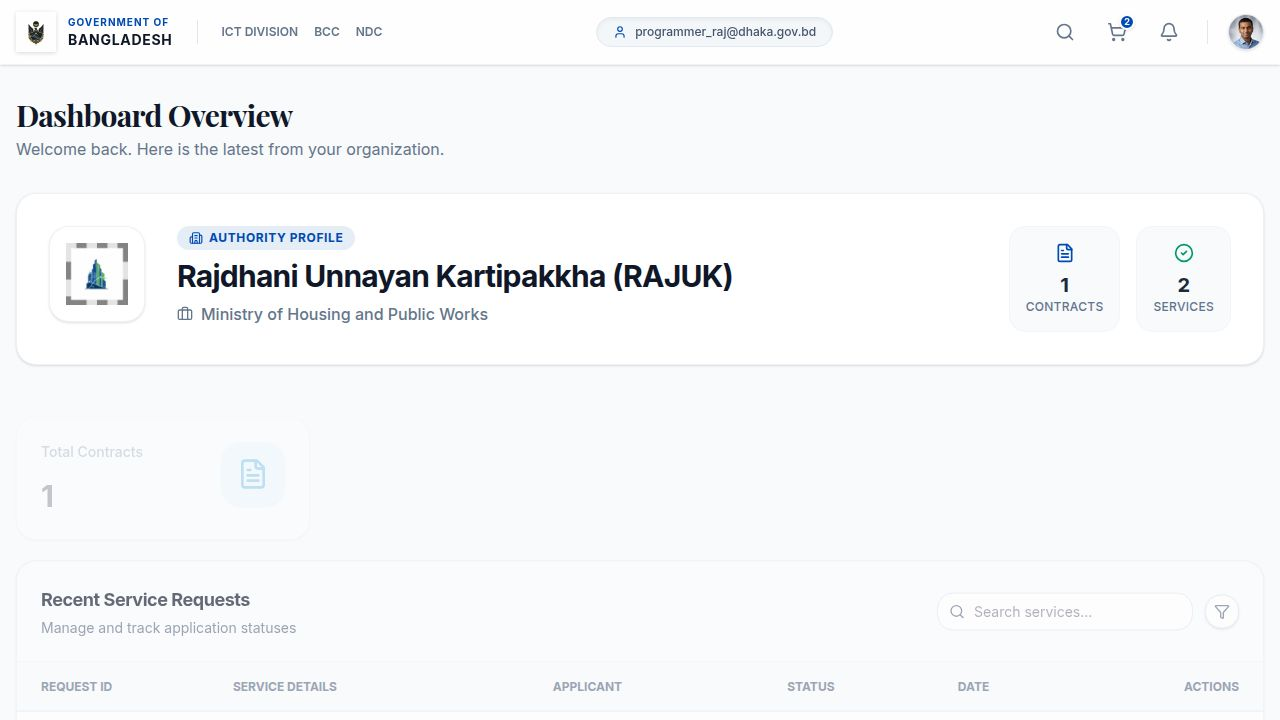
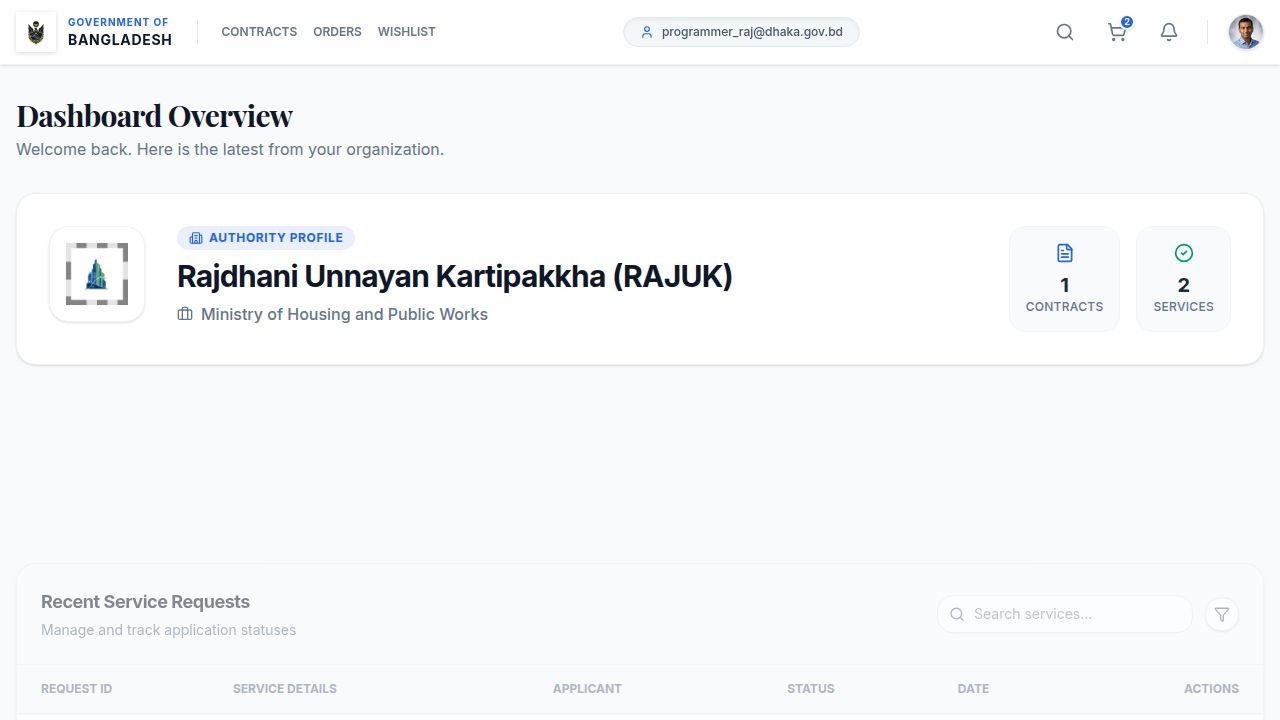
Add a collapsible sidebar navigation to the application interface
Refactors AppLayout, Sidebar, and TopNav components to implement a responsive sidebar navigation. Integrates the sidebar into the Dashboard page by using AppLayout and updating its structure.

Replit-Commit-Author: Agent
Replit-Commit-Session-Id: a30224bf-9e10-4a20-addc-dd14674d7b26
Replit-Commit-Checkpoint-Type: full_checkpoint
Replit-Commit-Event-Id: 3a14dfac-dfd6-466f-85ec-bbd6e22ebe2f
Replit-Commit-Screenshot-Url: https://storage.googleapis.com/screenshot-production-us-central1/aac74ff9-0873-4a4a-b889-fcad993d5e4f/a30224bf-9e10-4a20-addc-dd14674d7b26/wWJmvRX
Replit-Helium-Checkpoint-Created: true

diff --git a/artifacts/rajuk-dashboard/src/components/layout/Sidebar.tsx b/artifacts/rajuk-dashboard/src/components/layout/Sidebar.tsx
@@ -1,62 +1,88 @@
 import { Link, useLocation } from "wouter";
-import { LayoutDashboard, FileText, Cloud, PlusCircle, Heart, History, Phone, Mail } from "lucide-react";
+import {
+  LayoutDashboard, FileText, Cloud, PlusCircle, Heart, History,
+  Phone, Mail, Menu
+} from "lucide-react";
 import { cn } from "@/lib/utils";
 
 interface SidebarProps {
   className?: string;
   isOpen?: boolean;
+  onToggle?: () => void;
 }
 
-export function Sidebar({ className, isOpen = true }: SidebarProps) {
+const menuItems = [
+  { icon: LayoutDashboard, label: "Dashboard",             href: "/" },
+  { icon: FileText,        label: "Contract & Services",   href: "/contracts" },
+  { icon: Cloud,           label: "Cloud Service",         href: "/services/cloud" },
+  { icon: PlusCircle,      label: "Request Based Service", href: "/request-services" },
+  { icon: Heart,           label: "My WishList",           href: "/wishlist" },
+  { icon: History,         label: "Order History",         href: "/orders" },
+];
+
+export function Sidebar({ className, isOpen = true, onToggle }: SidebarProps) {
   const [location] = useLocation();
 
-  const menuItems = [
-    { icon: LayoutDashboard, label: "Dashboard", href: "/" },
-    { icon: FileText, label: "Contract & Services", href: "/contracts" },
-    { icon: Cloud, label: "Cloud Service", href: "/services/cloud" },
-    { icon: PlusCircle, label: "Request Based Service", href: "/request-services" },
-    { icon: Heart, label: "My WishList", href: "/wishlist" },
-    { icon: History, label: "Order History", href: "/orders" },
-  ];
-
   return (
-    <div 
+    <div
       className={cn(
-        "flex flex-col w-64 h-[calc(100vh-64px)] bg-[#1e2d4d] text-white transition-all duration-300 shrink-0 sticky top-16 z-40 overflow-y-auto",
-        !isOpen && "hidden lg:flex",
+        "flex flex-col w-64 h-screen bg-[#1a2840] text-white shrink-0 overflow-hidden",
         className
       )}
     >
-      <div className="flex-1 py-6 px-3 space-y-1">
+      {/* ── Sidebar header ── */}
+      <div className="h-16 flex items-center justify-between px-4 bg-[#152035] border-b border-white/10 shrink-0">
+        <span className="text-sm font-bold text-white/90 leading-tight tracking-wide">
+          Customer Management Portal
+        </span>
+        <button
+          onClick={onToggle}
+          className="p-2 rounded-lg text-white/60 hover:text-white hover:bg-white/10 transition-all shrink-0"
+          title="Collapse sidebar"
+        >
+          <Menu className="w-5 h-5" />
+        </button>
+      </div>
+
+      {/* ── Navigation items ── */}
+      <nav className="flex-1 py-5 px-3 space-y-0.5 overflow-y-auto">
         {menuItems.map((item) => {
-          const isActive = location === item.href || (item.href !== "/" && location.startsWith(item.href));
+          const isActive =
+            location === item.href ||
+            (item.href !== "/" && location.startsWith(item.href));
           return (
             <Link key={item.label} href={item.href}>
               <div
                 className={cn(
-                  "flex items-center gap-3 px-3 py-2.5 rounded-lg cursor-pointer transition-colors text-sm font-medium",
-                  isActive 
-                    ? "bg-primary text-white shadow-sm" 
-                    : "text-slate-300 hover:bg-white/10 hover:text-white"
+                  "flex items-center gap-3 px-3 py-2.5 rounded-lg cursor-pointer transition-all text-sm font-medium group",
+                  isActive
+                    ? "bg-primary text-white shadow-md shadow-primary/20"
+                    : "text-slate-300 hover:bg-white/8 hover:text-white"
                 )}
               >
-                <item.icon className={cn("w-5 h-5", isActive ? "text-white" : "text-slate-400")} />
-                {item.label}
+                <item.icon
+                  className={cn(
+                    "w-[18px] h-[18px] shrink-0 transition-colors",
+                    isActive ? "text-white" : "text-slate-400 group-hover:text-slate-200"
+                  )}
+                />
+                <span className="truncate">{item.label}</span>
               </div>
             </Link>
           );
         })}
-      </div>
+      </nav>
 
-      <div className="p-4 bg-black/20 mt-auto text-xs text-slate-400 space-y-2 border-t border-white/5">
-        <p>© 2020-2030 NDC, BCC. All rights reserved.</p>
+      {/* ── Footer ── */}
+      <div className="px-4 py-4 bg-black/20 border-t border-white/5 space-y-2 text-[11px] text-slate-400/80 shrink-0">
+        <p className="font-medium">@2020-2030 NDC, BCC. All rights reserved.</p>
         <div className="flex items-center gap-2">
-          <Phone className="w-3.5 h-3.5" />
-          <span>+880 1234-567890</span>
+          <Phone className="w-3.5 h-3.5 shrink-0" />
+          <span>+88-02-55006840</span>
         </div>
         <div className="flex items-center gap-2">
-          <Mail className="w-3.5 h-3.5" />
-          <span>support@ndc.gov.bd</span>
+          <Mail className="w-3.5 h-3.5 shrink-0" />
+          <span>datacenter@bcc.gov.bd</span>
         </div>
       </div>
     </div>

diff --git a/artifacts/rajuk-dashboard/src/pages/Dashboard.tsx b/artifacts/rajuk-dashboard/src/pages/Dashboard.tsx
@@ -1,7 +1,7 @@
 import { motion } from "framer-motion";
 import { FileText, HeadphonesIcon, PlayCircle, Mailbox } from "lucide-react";
 import { useDashboardStats } from "@/hooks/use-dashboard";
-import { TopNav } from "@/components/layout/TopNav";
+import { AppLayout } from "@/components/layout/AppLayout";
 import { OrganizationCard } from "@/components/dashboard/OrganizationCard";
 import { StatCard } from "@/components/dashboard/StatCard";
 import { ServicesTable } from "@/components/dashboard/ServicesTable";
@@ -11,14 +11,11 @@ export default function Dashboard() {
   const { data: stats, isLoading } = useDashboardStats();
 
   return (
-    <div className="min-h-screen flex flex-col bg-background">
-      <TopNav />
-      
-      <main className="flex-1 container mx-auto px-4 py-8 max-w-7xl flex flex-col gap-8">
-        
+    <AppLayout withSidebar>
+      <div className="flex flex-col gap-8 max-w-7xl mx-auto">
         {/* Header Section */}
         <div className="flex flex-col md:flex-row md:items-end justify-between gap-4">
-          <motion.div 
+          <motion.div
             initial={{ opacity: 0, x: -20 }}
             animate={{ opacity: 1, x: 0 }}
             transition={{ duration: 0.5 }}
@@ -39,34 +36,34 @@ export default function Dashboard() {
             ))
           ) : (
             <>
-              <StatCard 
-                title="Total Contracts" 
-                value={stats?.contracts || 0} 
+              <StatCard
+                title="Total Contracts"
+                value={stats?.contracts || 0}
                 icon={<FileText className="w-8 h-8" />}
                 colorClass="text-sky-600"
                 iconBgClass="bg-sky-100"
                 delay={0.1}
               />
-              <StatCard 
-                title="Active Services" 
-                value={stats?.services || 0} 
+              <StatCard
+                title="Active Services"
+                value={stats?.services || 0}
                 icon={<HeadphonesIcon className="w-8 h-8" />}
                 colorClass="text-emerald-600"
                 iconBgClass="bg-emerald-100"
                 delay={0.2}
               />
-              <StatCard 
-                title="Active Resources" 
-                value={stats?.activeResources || 0} 
+              <StatCard
+                title="Active Resources"
+                value={stats?.activeResources || 0}
                 icon={<PlayCircle className="w-8 h-8" />}
                 colorClass="text-purple-600"
                 iconBgClass="bg-purple-100"
                 delay={0.3}
                 trend={{ value: "12%", isPositive: true }}
               />
-              <StatCard 
-                title="New Requests" 
-                value={stats?.newRequests || 0} 
+              <StatCard
+                title="New Requests"
+                value={stats?.newRequests || 0}
                 icon={<Mailbox className="w-8 h-8" />}
                 colorClass="text-rose-600"
                 iconBgClass="bg-rose-100"
@@ -85,8 +82,7 @@ export default function Dashboard() {
         >
           <ServicesTable />
         </motion.div>
-
-      </main>
-    </div>
+      </div>
+    </AppLayout>
   );
 }

diff --git a/artifacts/rajuk-dashboard/src/components/layout/AppLayout.tsx b/artifacts/rajuk-dashboard/src/components/layout/AppLayout.tsx
@@ -1,4 +1,3 @@
-import { useLocation } from "wouter";
 import { TopNav } from "@/components/layout/TopNav";
 import { Sidebar } from "@/components/layout/Sidebar";
 import { useState } from "react";
@@ -10,35 +9,41 @@ interface LayoutProps {
 }
 
 export function AppLayout({ children, withSidebar = false }: LayoutProps) {
-  const [sidebarOpen, setSidebarOpen] = useState(false);
+  const [sidebarOpen, setSidebarOpen] = useState(true);
 
   return (
-    <div className="min-h-screen flex flex-col bg-slate-50">
-      <TopNav onMenuClick={withSidebar ? () => setSidebarOpen(!sidebarOpen) : undefined} />
-      
-      <div className="flex flex-1 overflow-hidden">
-        {withSidebar && (
-          <>
-            {/* Mobile Sidebar Overlay */}
-            {sidebarOpen && (
-              <div 
-                className="fixed inset-0 bg-black/50 z-40 lg:hidden"
-                onClick={() => setSidebarOpen(false)}
-              />
+    <div className="h-screen flex overflow-hidden bg-slate-50">
+      {/* Left: Full-height sidebar */}
+      {withSidebar && (
+        <>
+          {/* Mobile overlay */}
+          {sidebarOpen && (
+            <div
+              className="fixed inset-0 bg-black/50 z-40 lg:hidden"
+              onClick={() => setSidebarOpen(false)}
+            />
+          )}
+
+          <div
+            className={cn(
+              "fixed inset-y-0 left-0 z-50 transform transition-all duration-300 ease-in-out",
+              "lg:relative lg:translate-x-0",
+              sidebarOpen ? "translate-x-0" : "-translate-x-full lg:w-0 lg:overflow-hidden"
             )}
-            <div className={cn(
-              "fixed inset-y-0 left-0 pt-16 z-40 transform transition-transform duration-300 lg:relative lg:pt-0 lg:translate-x-0",
-              sidebarOpen ? "translate-x-0" : "-translate-x-full"
-            )}>
-              <Sidebar isOpen={true} />
-            </div>
-          </>
-        )}
-        
-        <main className={cn(
-          "flex-1 overflow-y-auto p-4 md:p-6 lg:p-8",
-          !withSidebar && "container mx-auto max-w-7xl"
-        )}>
+          >
+            <Sidebar isOpen={sidebarOpen} onToggle={() => setSidebarOpen(false)} />
+          </div>
+        </>
+      )}
+
+      {/* Right: TopNav + content */}
+      <div className="flex flex-col flex-1 overflow-hidden min-w-0">
+        <TopNav
+          onMenuClick={() => setSidebarOpen(!sidebarOpen)}
+          showMenuButton={withSidebar}
+          sidebarOpen={sidebarOpen}
+        />
+        <main className="flex-1 overflow-y-auto p-4 md:p-6 lg:p-8">
           {children}
         </main>
       </div>

diff --git a/artifacts/rajuk-dashboard/src/components/layout/TopNav.tsx b/artifacts/rajuk-dashboard/src/components/layout/TopNav.tsx
@@ -1,6 +1,7 @@
 import { Bell, Search, ShoppingCart, LogOut, Settings, User, Menu } from "lucide-react";
 import { Link, useLocation } from "wouter";
 import { useToast } from "@/hooks/use-toast";
+import { cn } from "@/lib/utils";
 import {
   DropdownMenu,
   DropdownMenuContent,
@@ -10,7 +11,15 @@ import {
   DropdownMenuTrigger,
 } from "@/components/ui/dropdown-menu";
 
-export function TopNav({ onMenuClick }: { onMenuClick?: () => void }) {
+export function TopNav({
+  onMenuClick,
+  showMenuButton = false,
+  sidebarOpen = true,
+}: {
+  onMenuClick?: () => void;
+  showMenuButton?: boolean;
+  sidebarOpen?: boolean;
+}) {
   const { toast } = useToast();
   const [location] = useLocation();
 
@@ -34,10 +43,14 @@ export function TopNav({ onMenuClick }: { onMenuClick?: () => void }) {
         
         {/* Left: Logos & Branding */}
         <div className="flex items-center gap-4 lg:gap-6">
-          {onMenuClick && (
-            <button 
+          {/* Hamburger: always on mobile, only when sidebar closed on desktop */}
+          {showMenuButton && (
+            <button
               onClick={onMenuClick}
-              className="lg:hidden p-2 -ml-2 text-muted-foreground hover:text-primary hover:bg-primary/5 rounded-lg"
+              className={cn(
+                "p-2 -ml-1 text-muted-foreground hover:text-primary hover:bg-primary/5 rounded-lg transition-all",
+                sidebarOpen ? "lg:hidden" : "flex"
+              )}
             >
               <Menu className="w-5 h-5" />
             </button>
